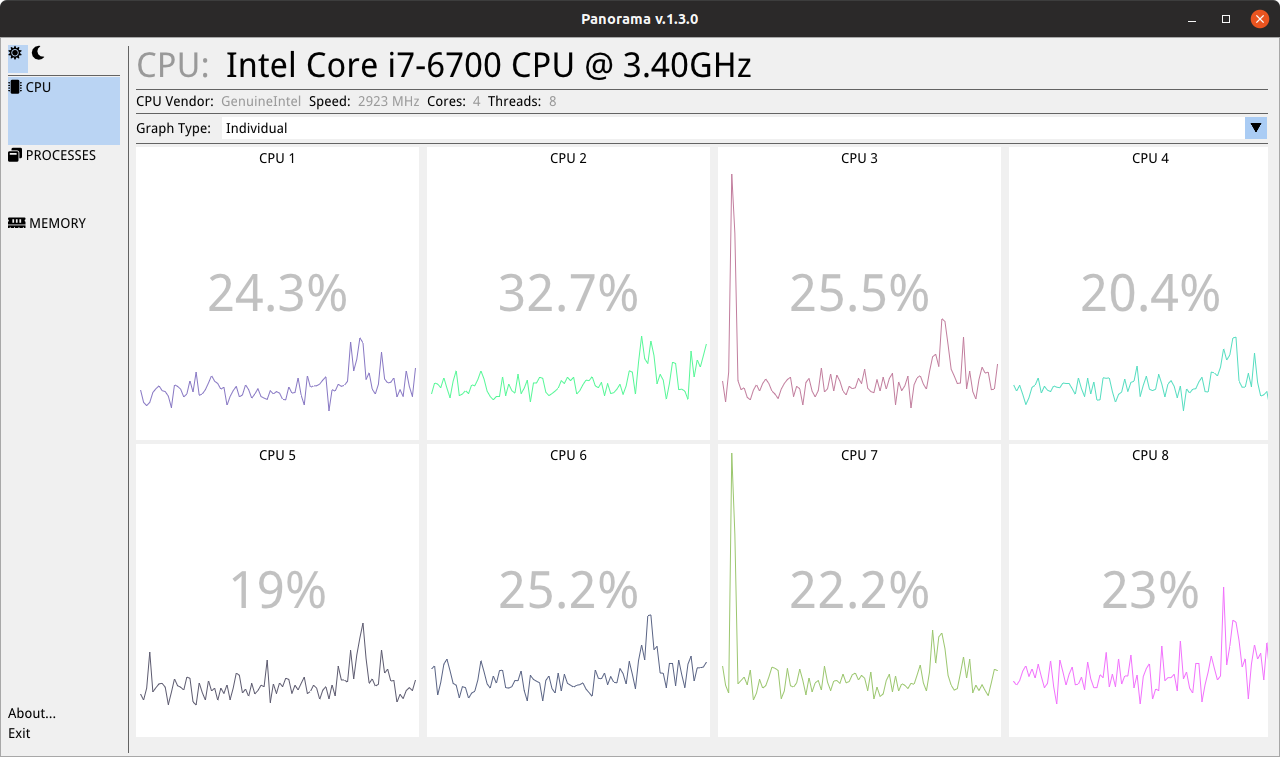
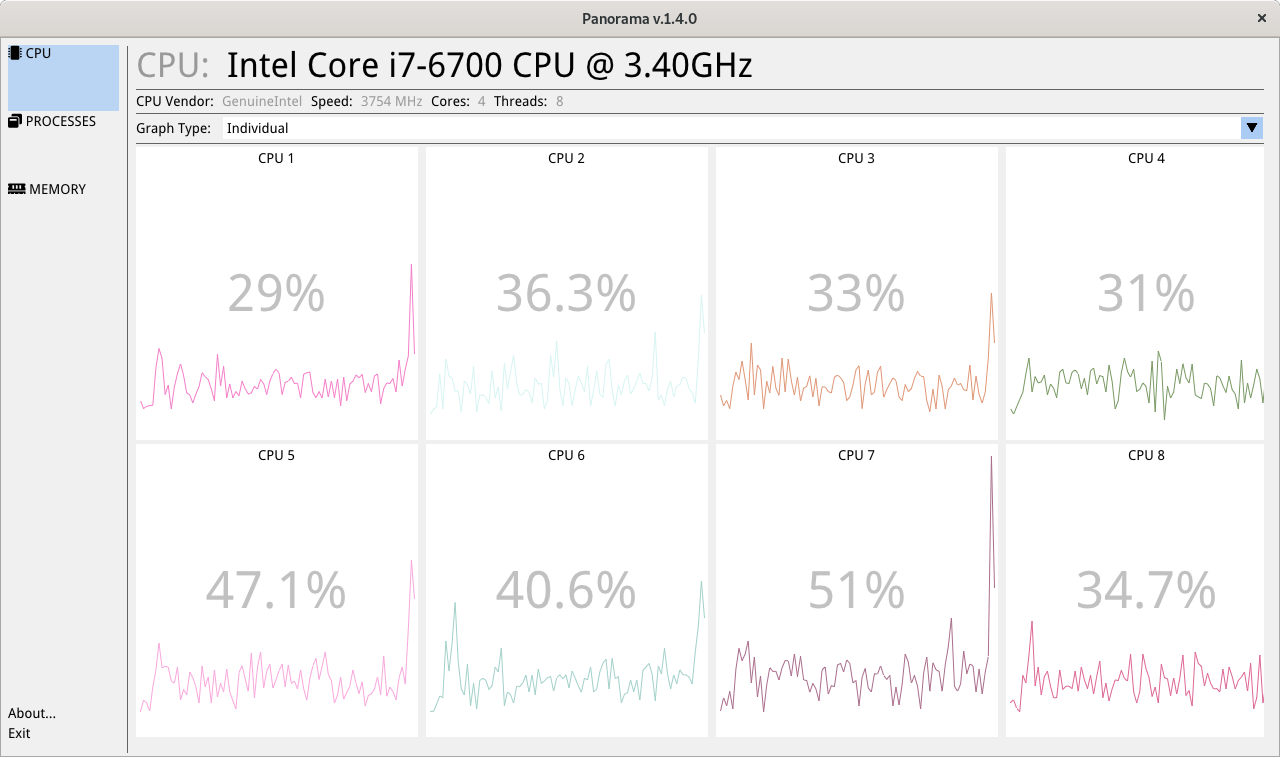
Updated version info and screenshot

diff --git a/README.md b/README.md
@@ -8,7 +8,7 @@
 </p>
 
 <p align="center">
-  <b>Current version: 1.3.0</b>
+  <b>Current version: 1.4.0</b>
 </p>
 
 [![Get it from the Snap Store](https://snapcraft.io/static/images/badges/en/snap-store-black.svg)](https://snapcraft.io/panorama)
@@ -24,7 +24,7 @@
 Panorama is a very simple Linux system monitor written in C++ using the ImGui UI toolkit. It's meant to show that writing beautiful and functional tools using IMGui is quite easy.
 
 ## Supported Platforms
-Currently the tool was tested on KDE Neon 5.12, Ubuntu 16.04/18.04 LTS, and Fedora WS 27 with the AMD64 and x86 variants.
+Currently the tool was tested on KDE Neon 5.12, Ubuntu 16.04/18.04 LTS, and Fedora 27-30 with the AMD64 and x86 variants.
 
 Any video driver that has support for OpenGL 2.1 will suffice. Tested with AMD, Intel, NVIDIA and Virtualbox drivers.
 
